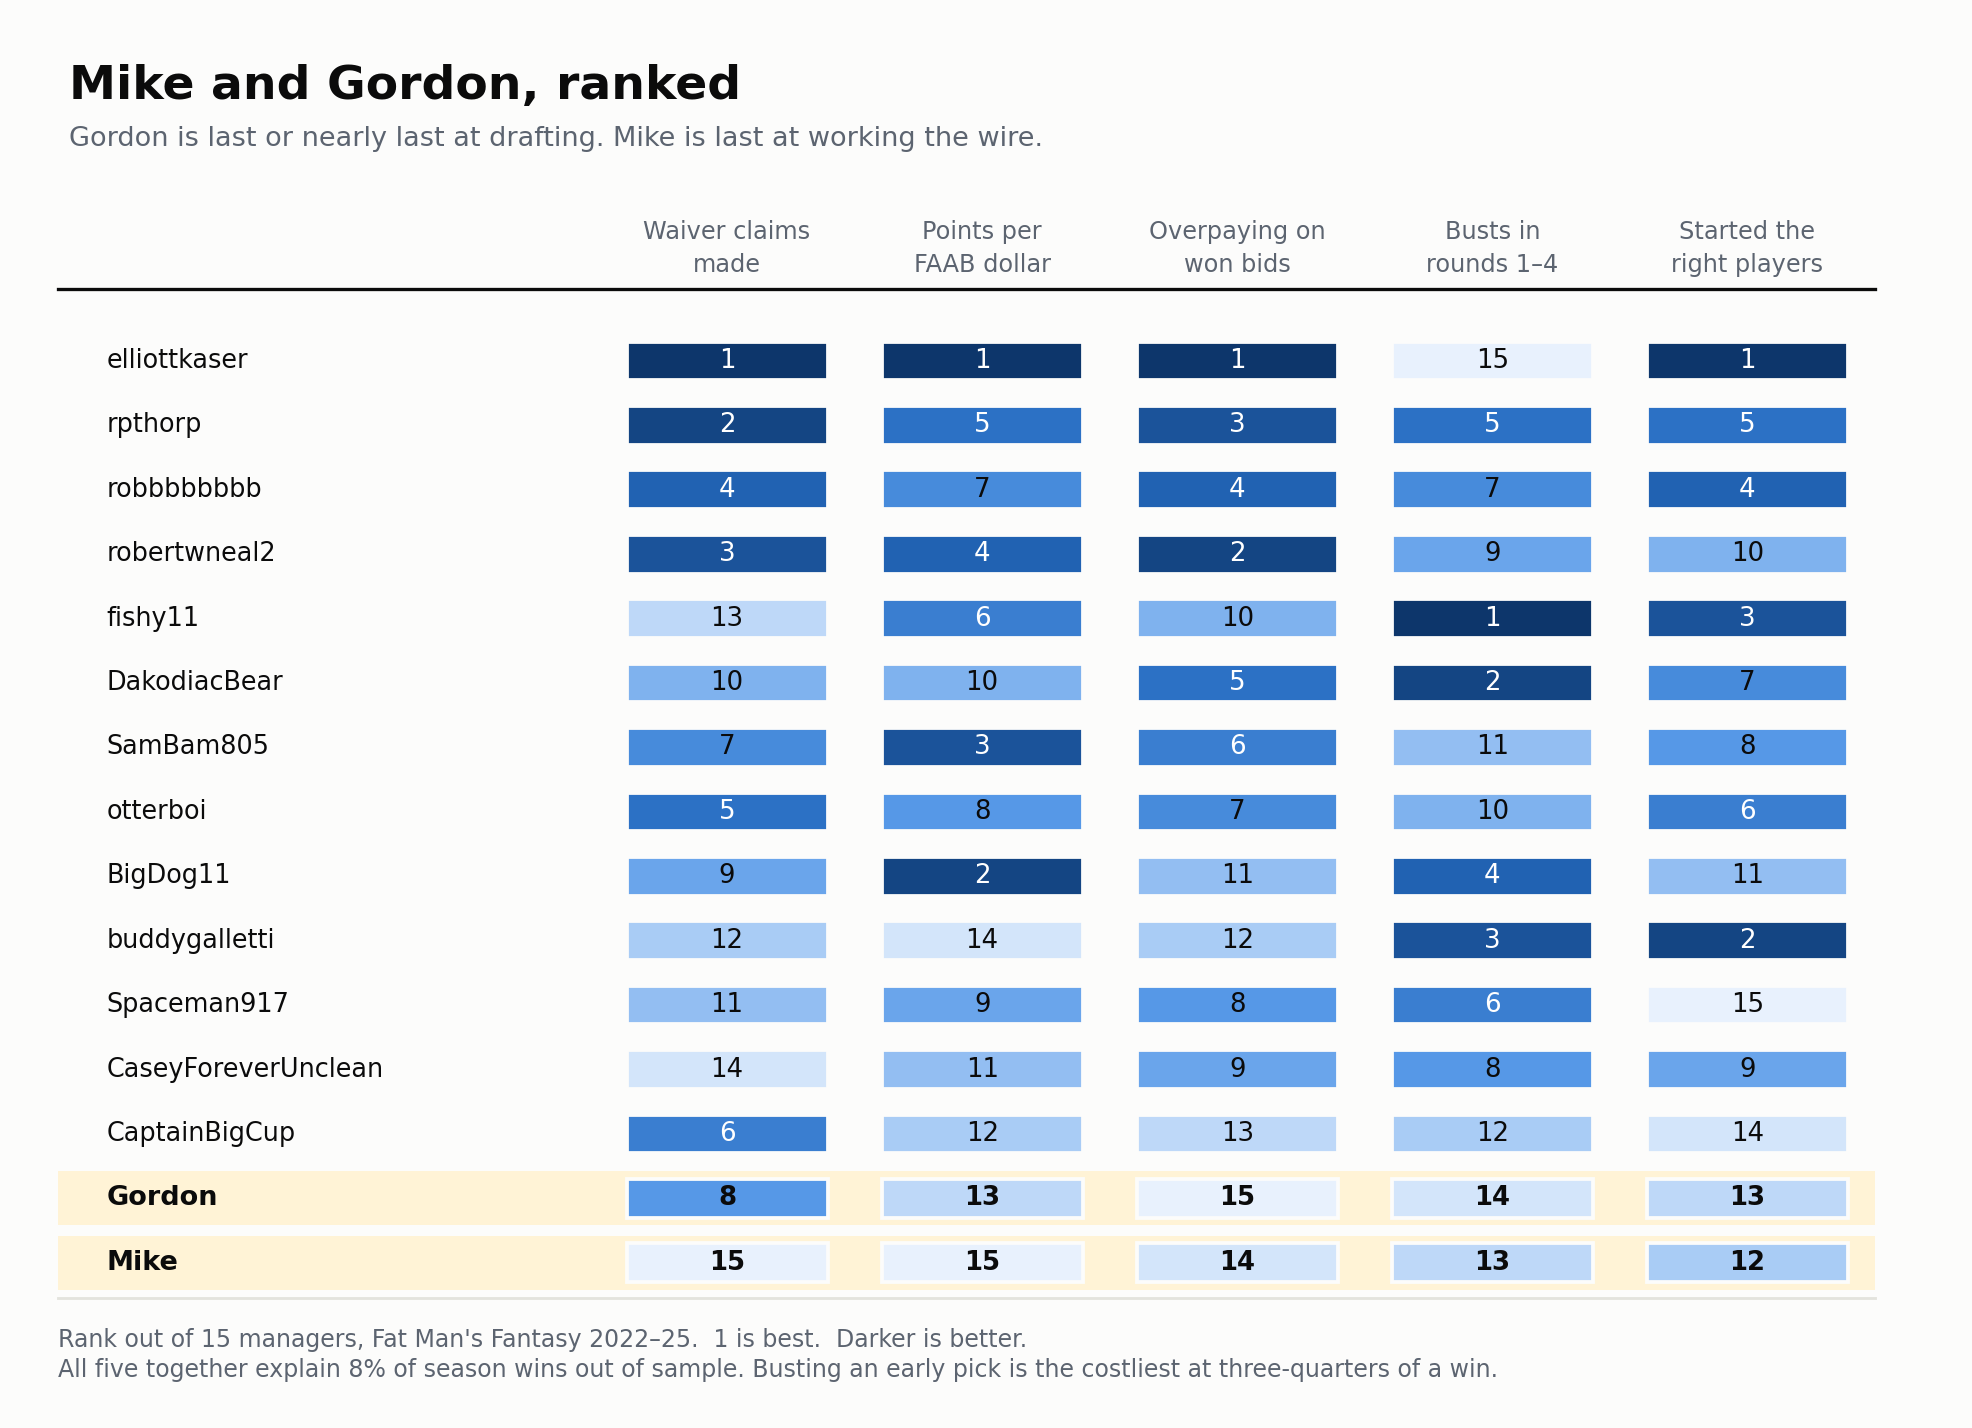
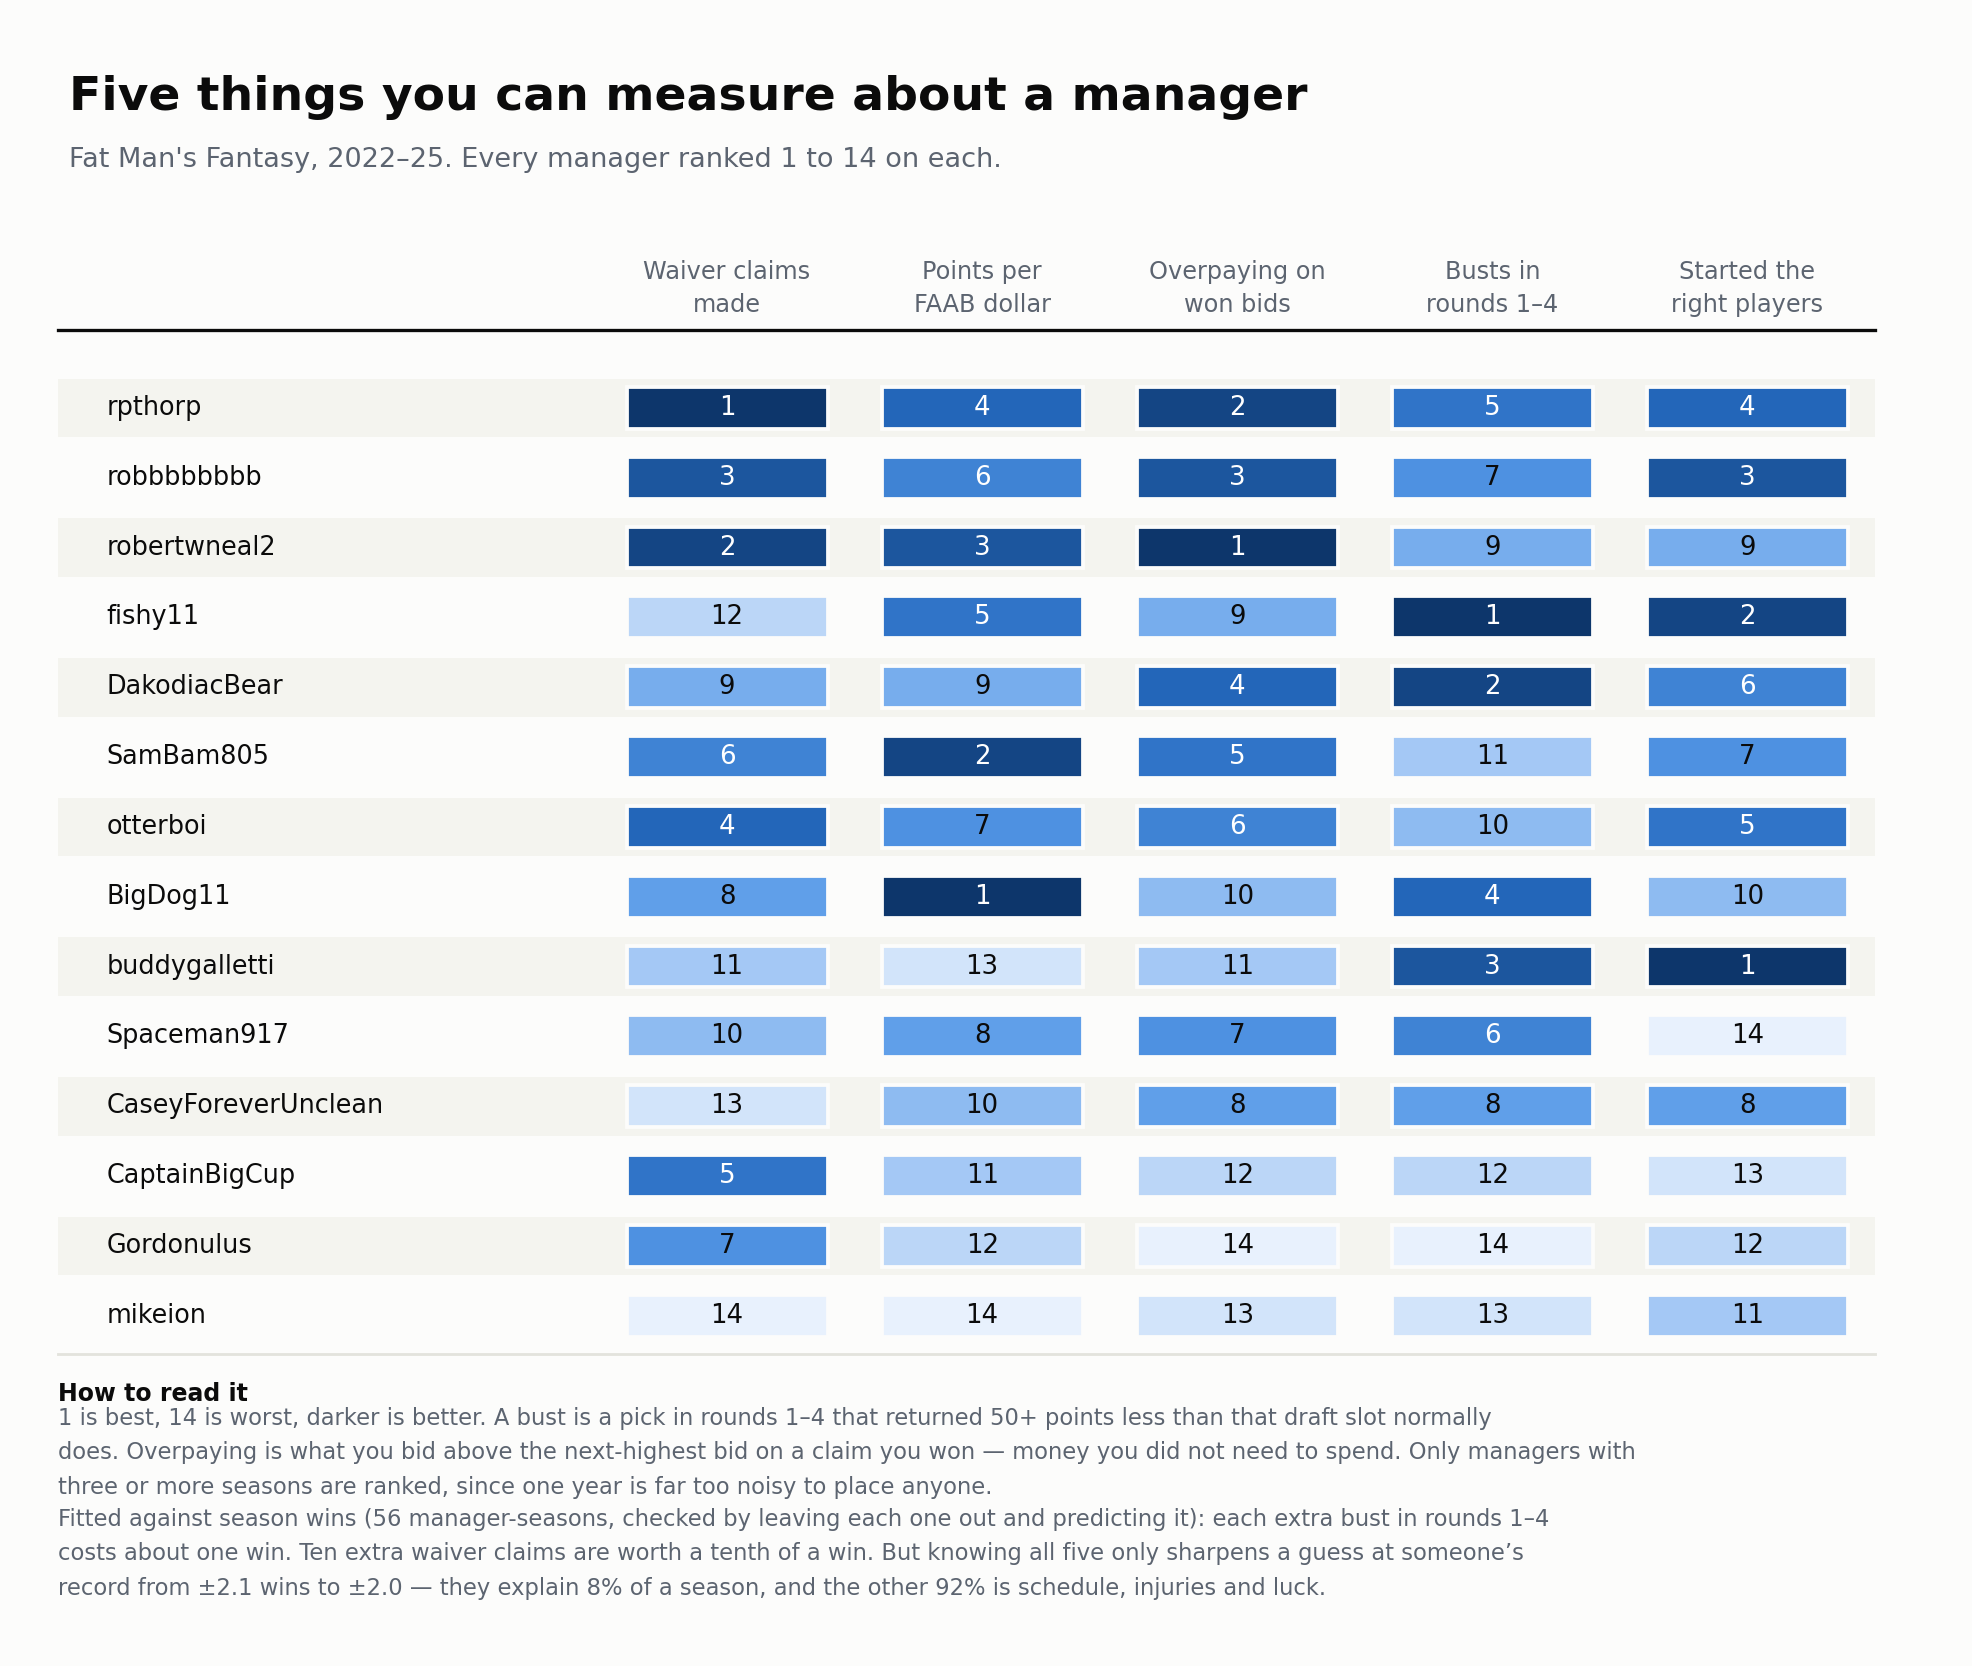
Make the rank table neutral and state where its numbers come from
Drops the "Mike and Gordon, ranked" framing and the highlighting: a plain
league table lets anyone find their own row and draw their own conclusion,
which is more use than a chart that announces the verdict.

Requires three seasons to be ranked, which excludes elliottkaser, whose single
season had him first in three of five columns. He stays in the model fit,
where a manager-season is a legitimate observation.

The footer now defines a bust and an overpay in words, and reports the model
in natural units rather than standard deviations: one extra early bust costs
about a win, ten extra waiver claims are worth a tenth of one, and knowing all
five sharpens a guess at a manager's record only from +/-2.1 wins to +/-2.0.

diff --git a/data-extraction/chart_for_gordon.py b/data-extraction/chart_for_gordon.py
@@ -25,7 +25,8 @@ COLS = [("waiver claims", "Waiver claims\nmade"),
         ("overpay $",     "Overpaying on\nwon bids"),
         ("early busts",   "Busts in\nrounds 1–4"),
         ("lineup %",      "Started the\nright players")]
-FOCUS = {"mikeion": "Mike", "Gordonulus": "Gordon"}
+# no highlighting and no renaming: everyone reads their own handle and draws
+# their own conclusion. Singling two managers out makes it an accusation.
 
 
 def main():
@@ -33,9 +34,9 @@ def main():
     n = len(ranks)
     order = sorted(ranks, key=lambda w: statistics.mean(ranks[w].values()))
 
-    fig, ax = plt.subplots(figsize=(11.6, 8.4), facecolor=SURFACE)
+    fig, ax = plt.subplots(figsize=(11.6, 9.8), facecolor=SURFACE)
     ax.set_facecolor(SURFACE); ax.axis("off")
-    ax.set_xlim(0, 1); ax.set_ylim(-1.9, n + 1.5)
+    ax.set_xlim(0, 1); ax.set_ylim(-4.3, n + 1.5)
 
     x0, cw = 0.30, 0.132
     for j, (_key, lbl) in enumerate(COLS):
@@ -45,13 +46,10 @@ def main():
 
     for i, who in enumerate(order):
         y = n - 1 - i
-        name = FOCUS.get(who, who)
-        focus = who in FOCUS
-        if focus:
+        if i % 2 == 0:
             ax.add_patch(plt.Rectangle((0.02, y - 0.42), x0 + len(COLS) * cw - 0.02, 0.84,
-                                       facecolor=HILITE, edgecolor="none", zorder=0))
-        ax.text(0.045, y, name, fontsize=11.5 if focus else 10.8, color=INK,
-                va="center", fontweight="bold" if focus else "normal")
+                                       facecolor="#f4f4ef", edgecolor="none", zorder=0))
+        ax.text(0.045, y, who, fontsize=10.8, color=INK, va="center")
         for j, (key, _l) in enumerate(COLS):
             r = ranks[who][key]
             cx = x0 + j * cw + cw / 2
@@ -59,22 +57,29 @@ def main():
                                        facecolor=RAMP((r - 1) / (n - 1)),
                                        edgecolor=SURFACE, lw=1.6, zorder=2))
             ax.text(cx, y, str(r), fontsize=11, ha="center", va="center", zorder=3,
-                    color="#ffffff" if r <= n * 0.45 else INK,
-                    fontweight="bold" if focus else "normal")
+                    color="#ffffff" if r <= n * 0.45 else INK)
 
     ax.plot([0.02, x0 + len(COLS) * cw], [-0.55, -0.55], color=RULE, lw=1.2)
-    ax.text(0.02, -1.02, "Rank out of 15 managers, Fat Man's Fantasy 2022–25.  "
-                         "1 is best.  Darker is better.",
-            fontsize=10, color=MUTED, va="top")
-    ax.text(0.02, -1.48,
-            "All five together explain 8% of season wins out of sample. "
-            "Busting an early pick is the costliest at three-quarters of a win.",
-            fontsize=10, color=MUTED, va="top")
+    ax.text(0.02, -0.95, "How to read it", fontsize=10, color=INK, fontweight="bold", va="top")
+    ax.text(0.02, -1.30,
+            "1 is best, 14 is worst, darker is better. A bust is a pick in rounds 1\u20134 that "
+            "returned 50+ points less than that draft slot normally\ndoes. Overpaying is what you "
+            "bid above the next-highest bid on a claim you won \u2014 money you did not need to "
+            "spend. Only managers with\nthree or more seasons are ranked, since one year is far too "
+            "noisy to place anyone.",
+            fontsize=9.6, color=MUTED, va="top", linespacing=1.65)
+    ax.text(0.02, -2.75,
+            "Fitted against season wins (56 manager-seasons, checked by leaving each one out "
+            "and predicting it): each extra bust in rounds 1\u20134\ncosts about one win. Ten extra "
+            "waiver claims are worth a tenth of a win. But knowing all five only sharpens a guess "
+            "at someone\u2019s\nrecord from \u00b12.1 wins to \u00b12.0 \u2014 they explain 8% of a season, "
+            "and the other 92% is schedule, injuries and luck.",
+            fontsize=9.6, color=MUTED, va="top", linespacing=1.65)
 
-    fig.text(0.035, 0.955, "Mike and Gordon, ranked", fontsize=20, color=INK,
-             fontweight="bold", ha="left", va="top")
+    fig.text(0.035, 0.955, "Five things you can measure about a manager",
+             fontsize=20, color=INK, fontweight="bold", ha="left", va="top")
     fig.text(0.035, 0.912,
-             "Gordon is last or nearly last at drafting. Mike is last at working the wire.",
+             "Fat Man's Fantasy, 2022\u201325. Every manager ranked 1 to 14 on each.",
              fontsize=11.5, color=MUTED, ha="left", va="top")
 
     fig.subplots_adjust(left=0.01, right=0.99, top=0.86, bottom=0.03)

diff --git a/data-extraction/predict_quality.py b/data-extraction/predict_quality.py
@@ -149,12 +149,22 @@ def main():
         print(f"  {f:22}{b:>+15.2f}{'helps' if b > 0 else 'hurts':>12}")
 
     print("\n" + "=" * 78)
-    print("  WHERE EACH MANAGER RANKS  (1 = best of 14, career averages)")
+    print("  WHERE EACH MANAGER RANKS  (career averages, 3+ seasons only)")
     print("=" * 78)
+    # Ranking needs a stable per-manager average, so require three seasons.
+    # The model above still uses every manager-season, including short stints.
+    MIN_SEASONS = 3
     agg = collections.defaultdict(lambda: collections.defaultdict(list))
+    seasons = collections.defaultdict(set)
     for r in rows:
+        seasons[r["who"]].add(r["yr"])
         for f in FEATURES: agg[r["who"]][f].append(r[f])
+    dropped = sorted(w for w in agg if len(seasons[w]) < MIN_SEASONS)
+    for w in dropped: del agg[w]
     who_list = list(agg)
+    if dropped:
+        print(f"  (excluded, fewer than {MIN_SEASONS} seasons: "
+              + ", ".join(f"{w} [{len(seasons[w])}]" for w in dropped) + ")")
     print(f"  {'manager':22}" + "".join(f"{f[:12]:>14}" for f in FEATURES))
     ranks = {}
     for f in FEATURES:
@@ -165,7 +175,7 @@ def main():
     for w in sorted(who_list, key=lambda w: statistics.mean(ranks[w].values())):
         mark = " <<<" if w in ("mikeion", "Gordonulus") else ""
         print(f"  {w:22}" + "".join(f"{ranks[w][f]:>14}" for f in FEATURES) + mark)
-    json.dump({"rows": rows, "ranks": ranks, "beta": dict(zip(FEATURES, beta[1:])),
+    json.dump({"rows": rows, "ranks": ranks, "n_ranked": len(who_list), "beta": dict(zip(FEATURES, beta[1:])),
                "loo_r2": best_r2, "lam": best_lam},
               open(OUT / "predict_quality.json", "w"), indent=1)
 
